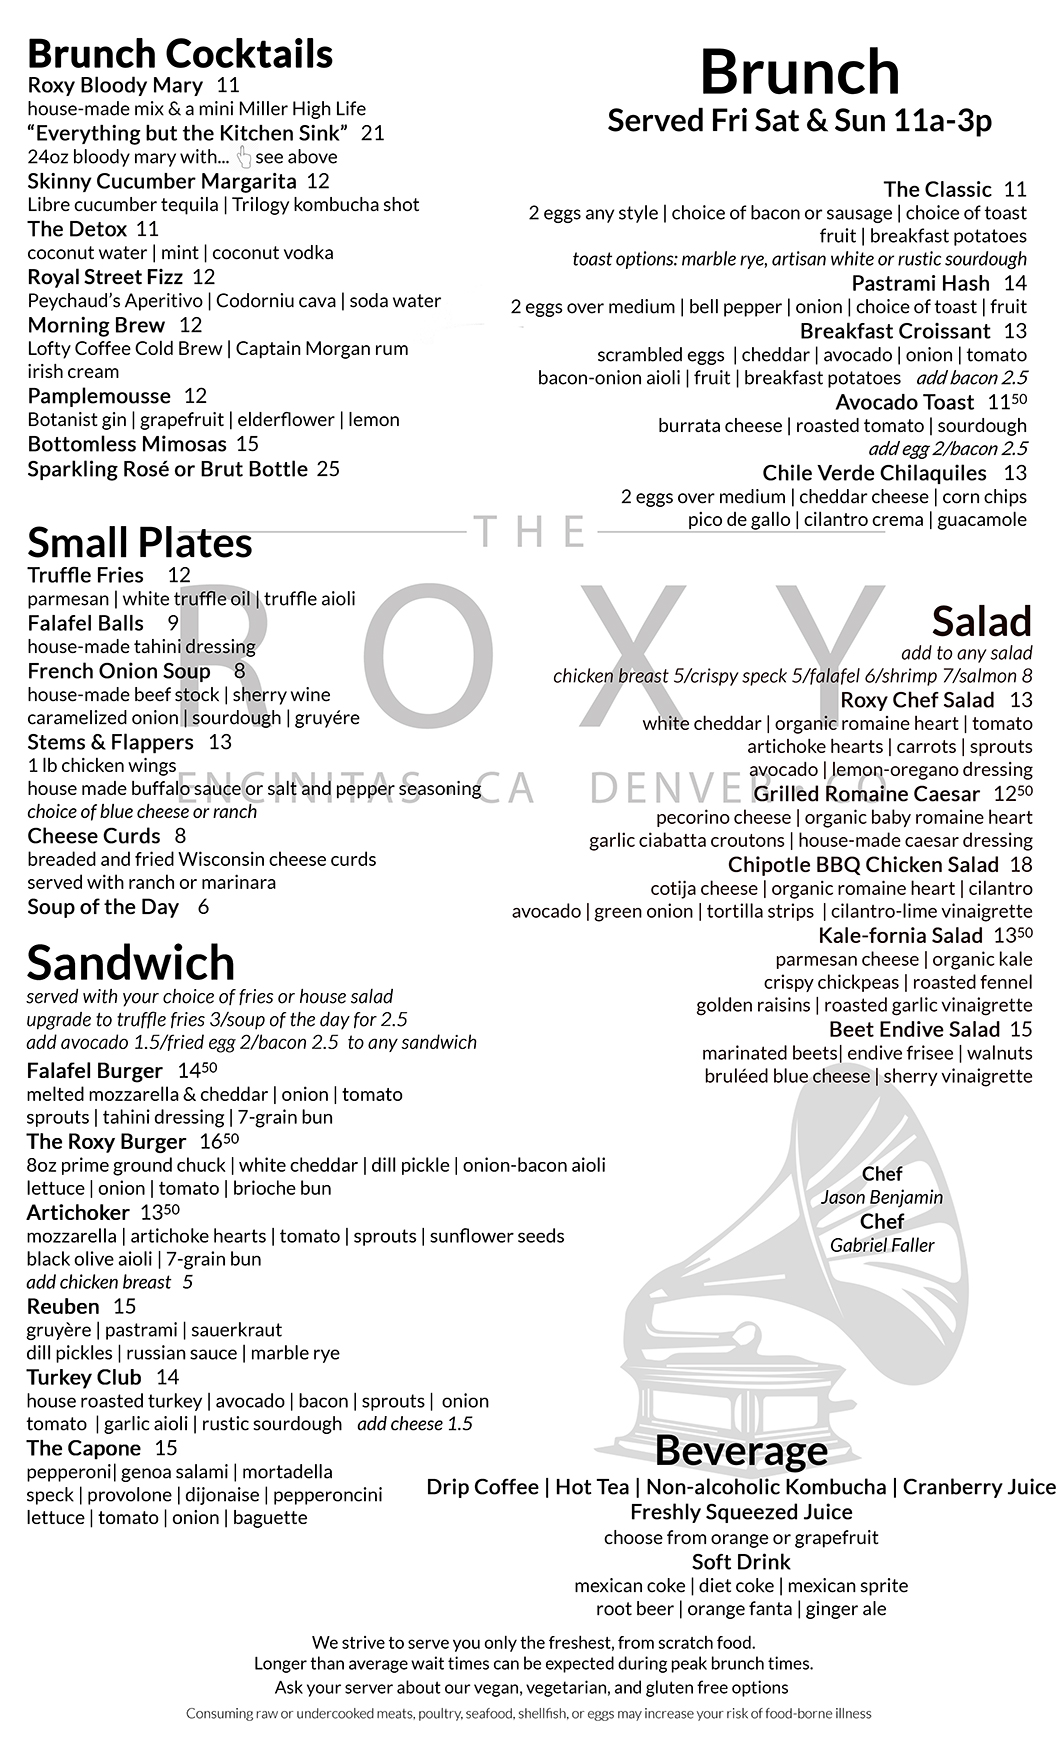
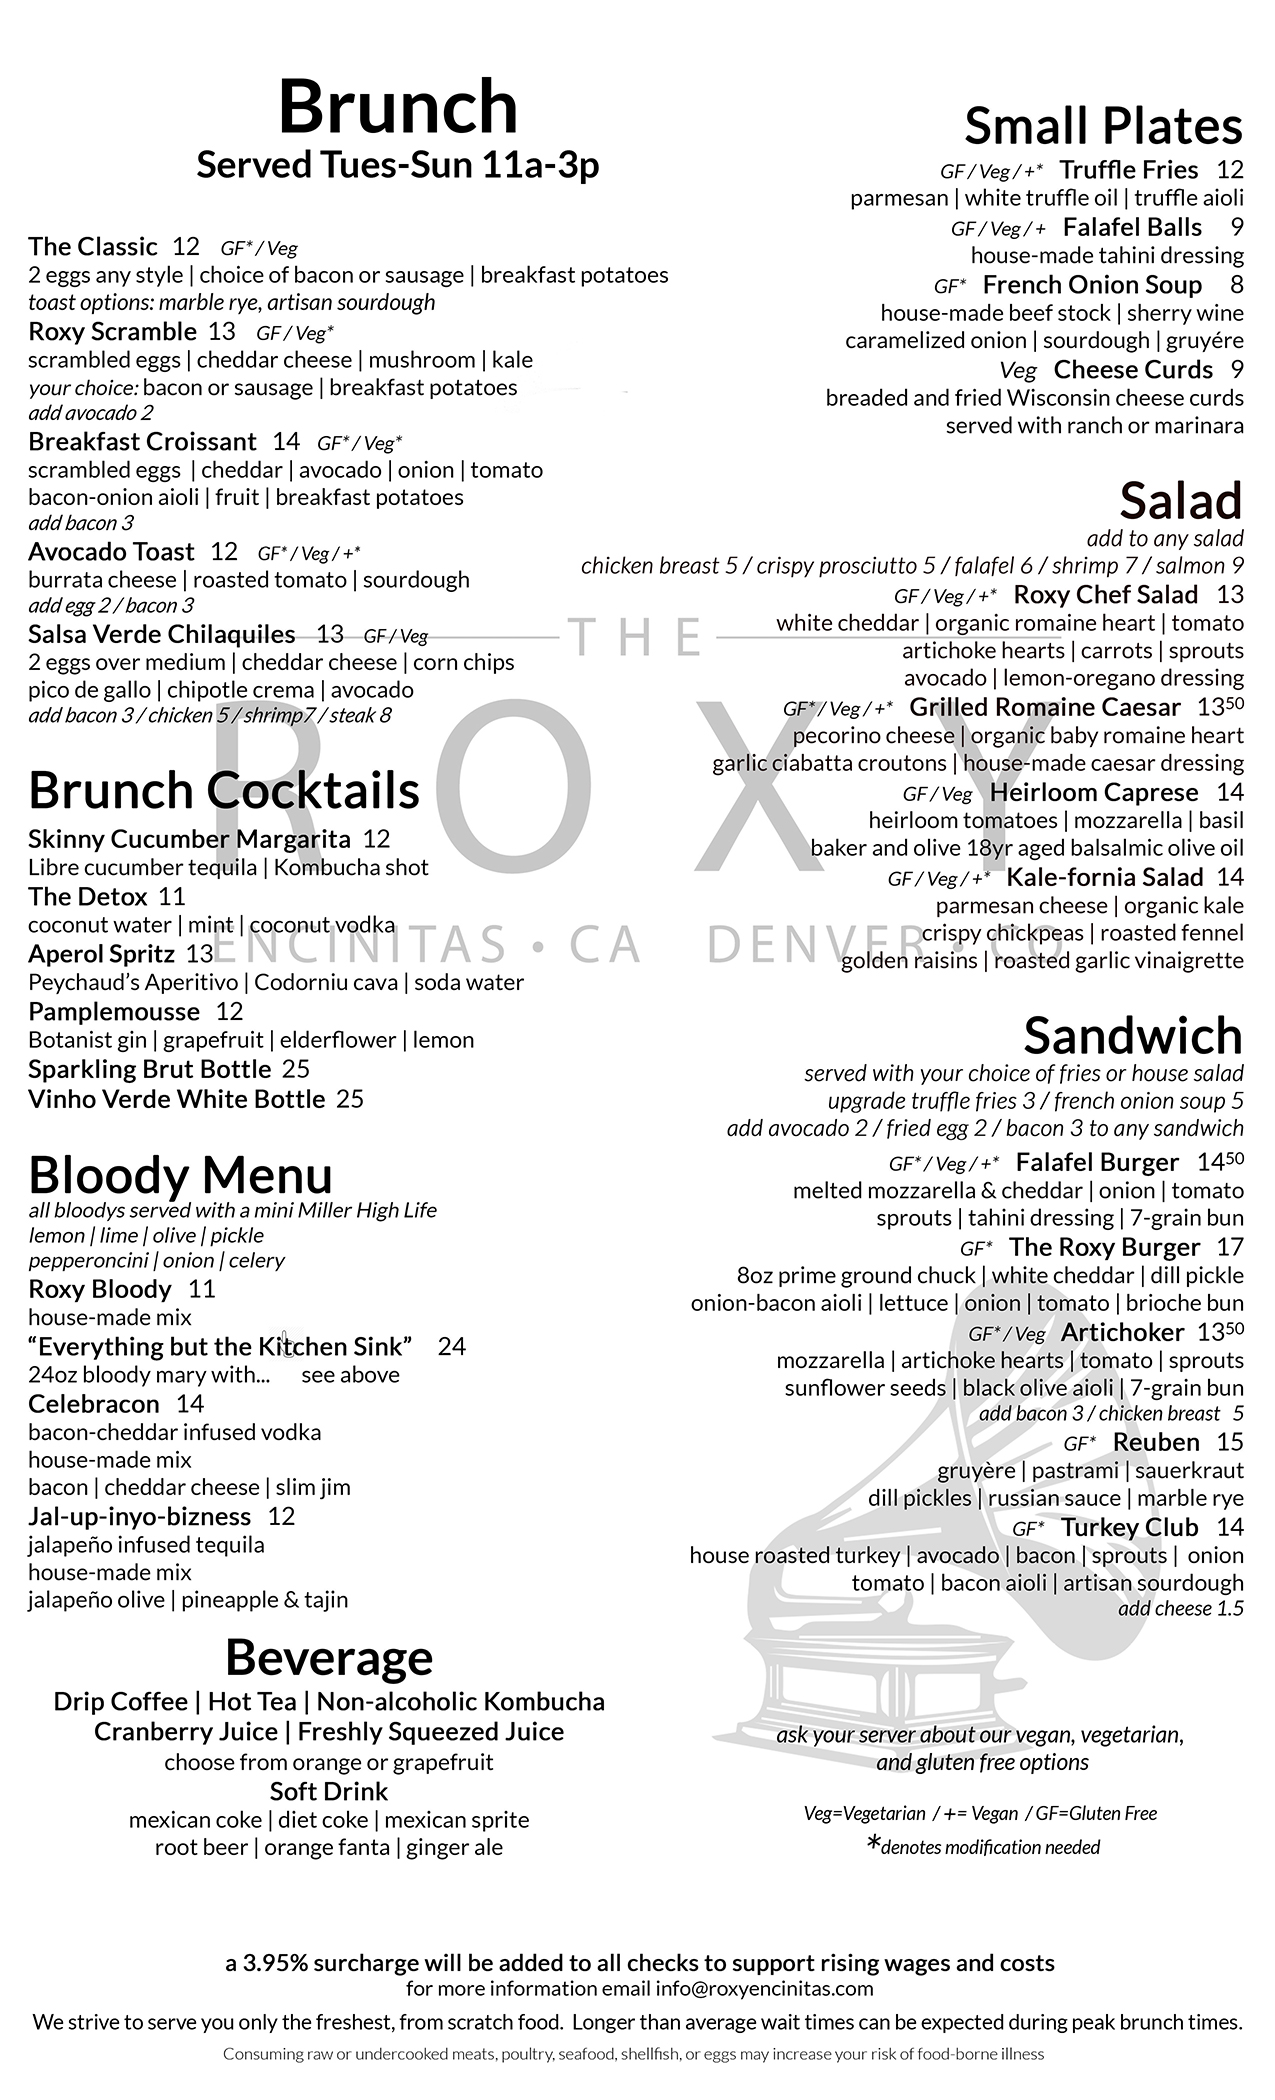
new brunch menu

diff --git a/src/FoodMenu/Brunch/Brunch.jsx b/src/FoodMenu/Brunch/Brunch.jsx
@@ -1,5 +1,5 @@
 import React, {Component} from 'react';
-import brunch from '../../images/enci_COVIDBrunch.png';
+import brunch from '../../images/enci_COVIDBrunch.jpg';
 
 class Brunch extends Component {
     constructor(){
